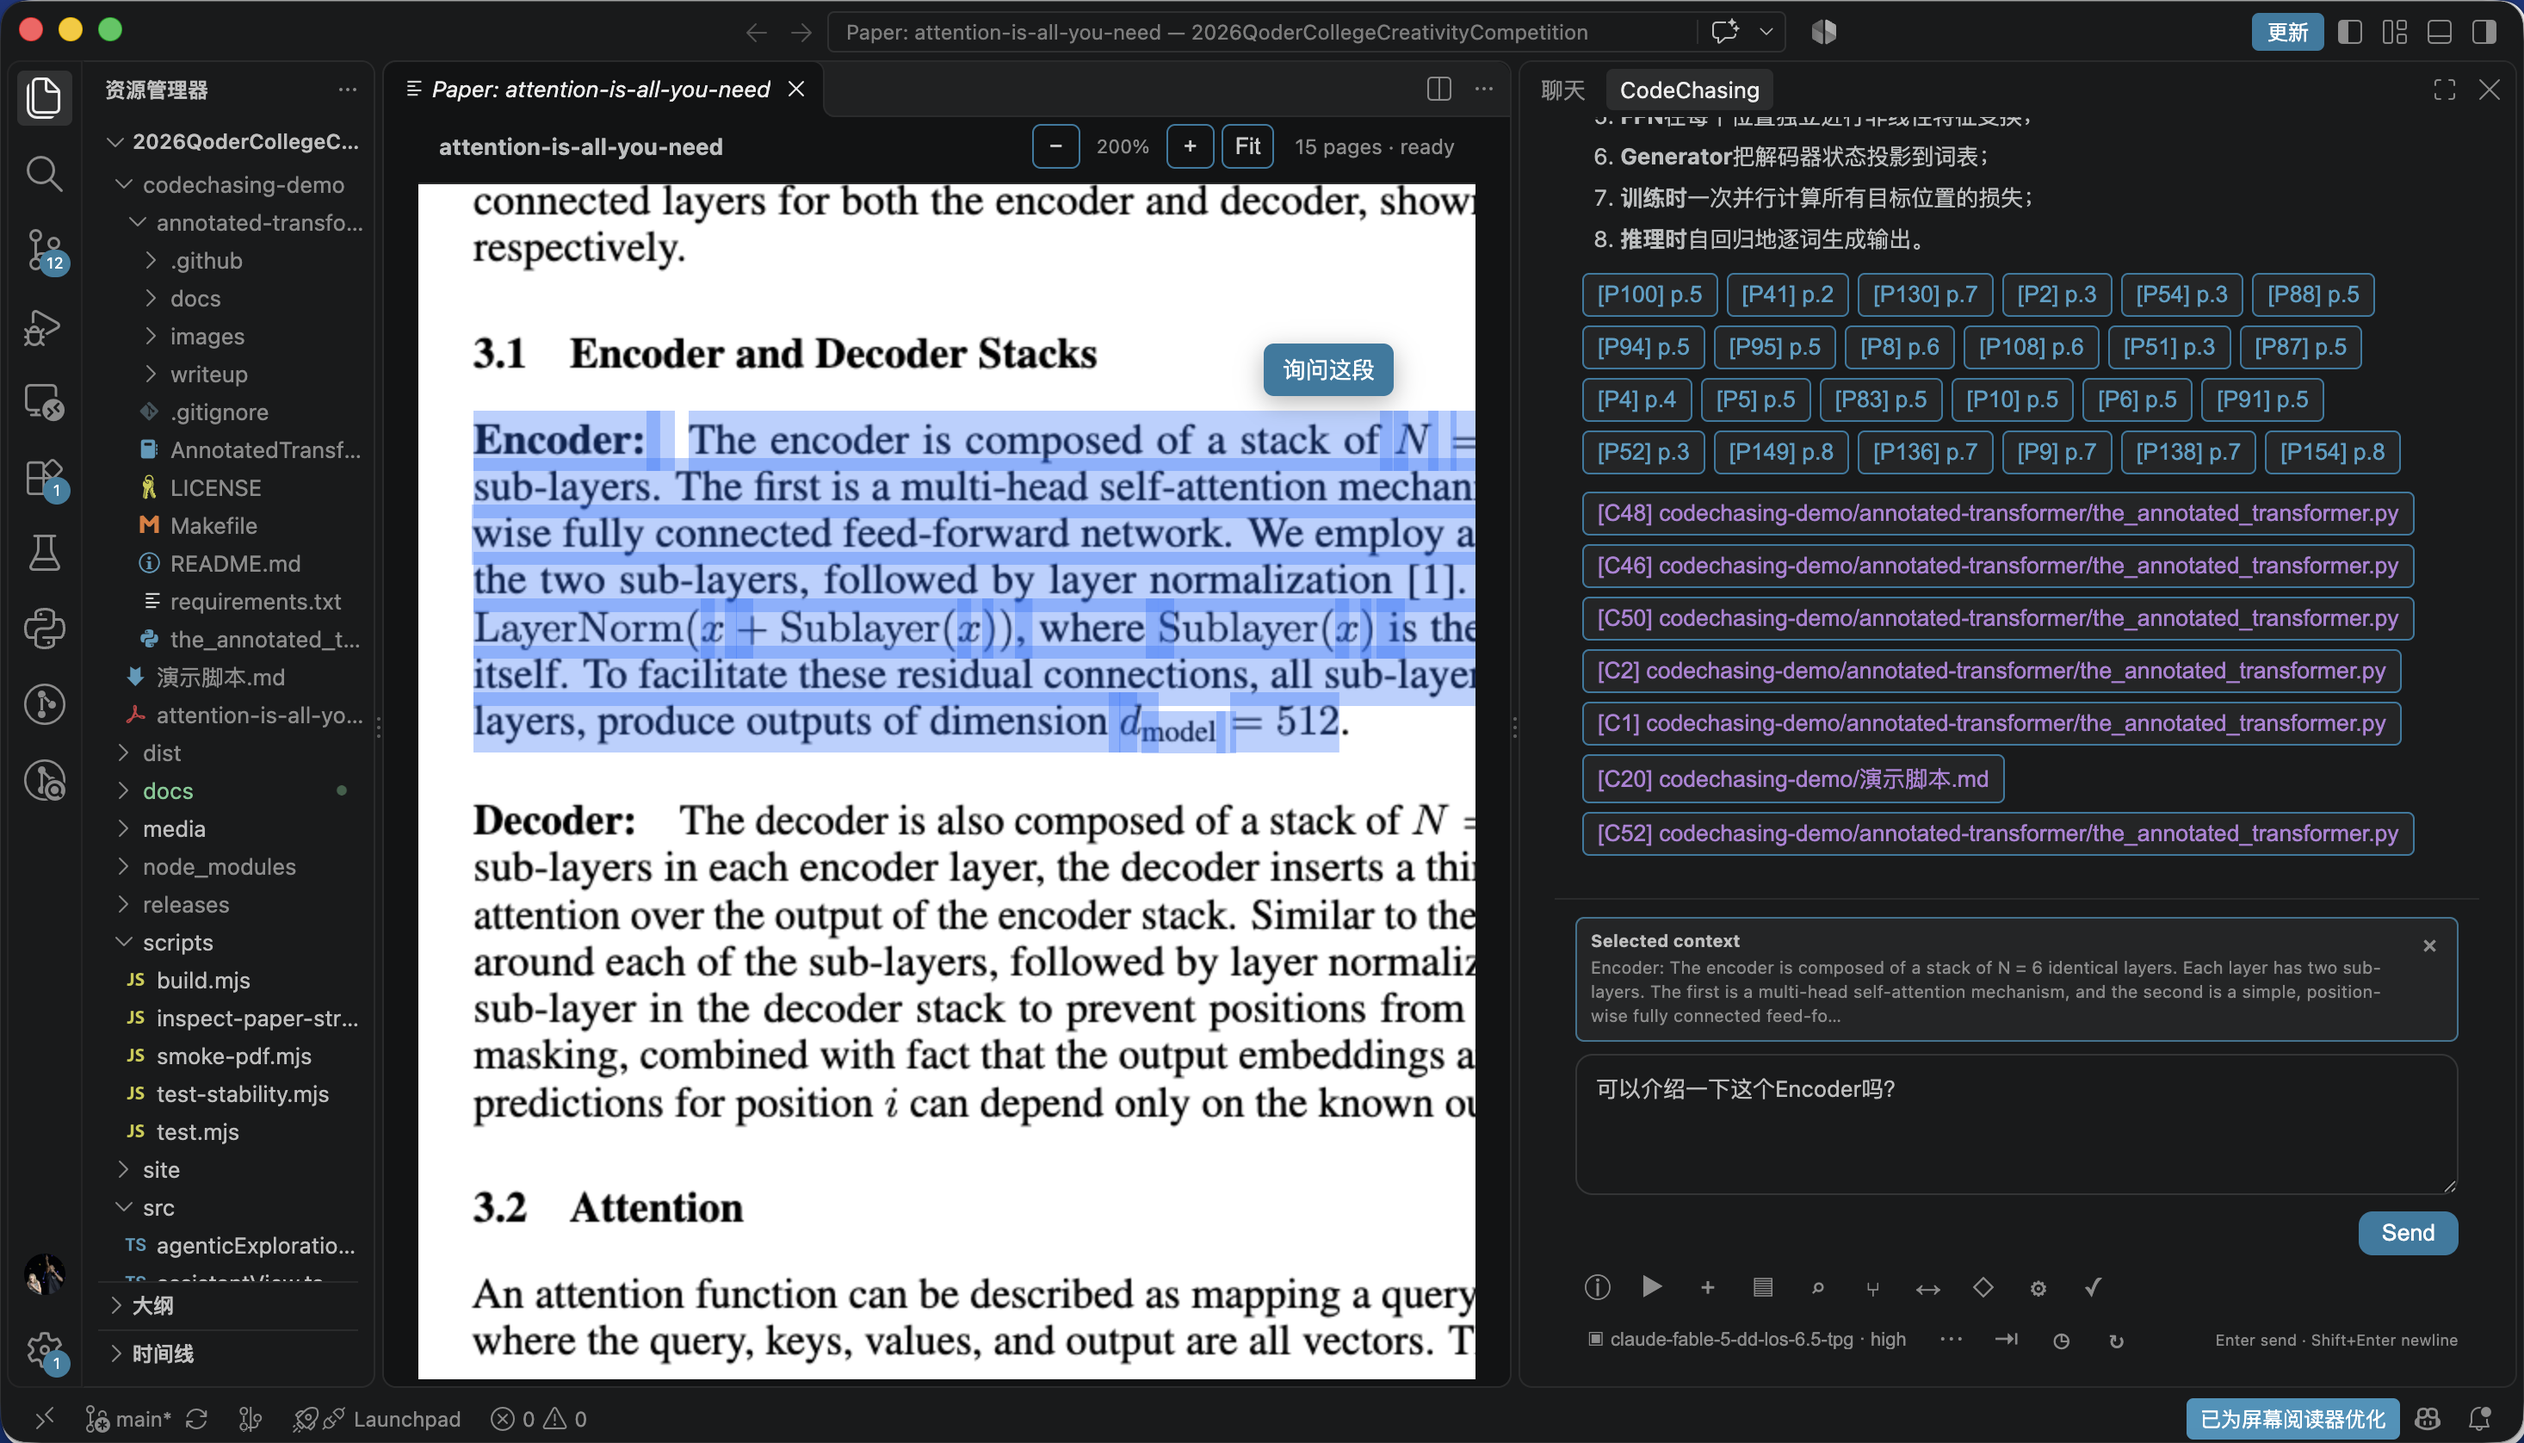
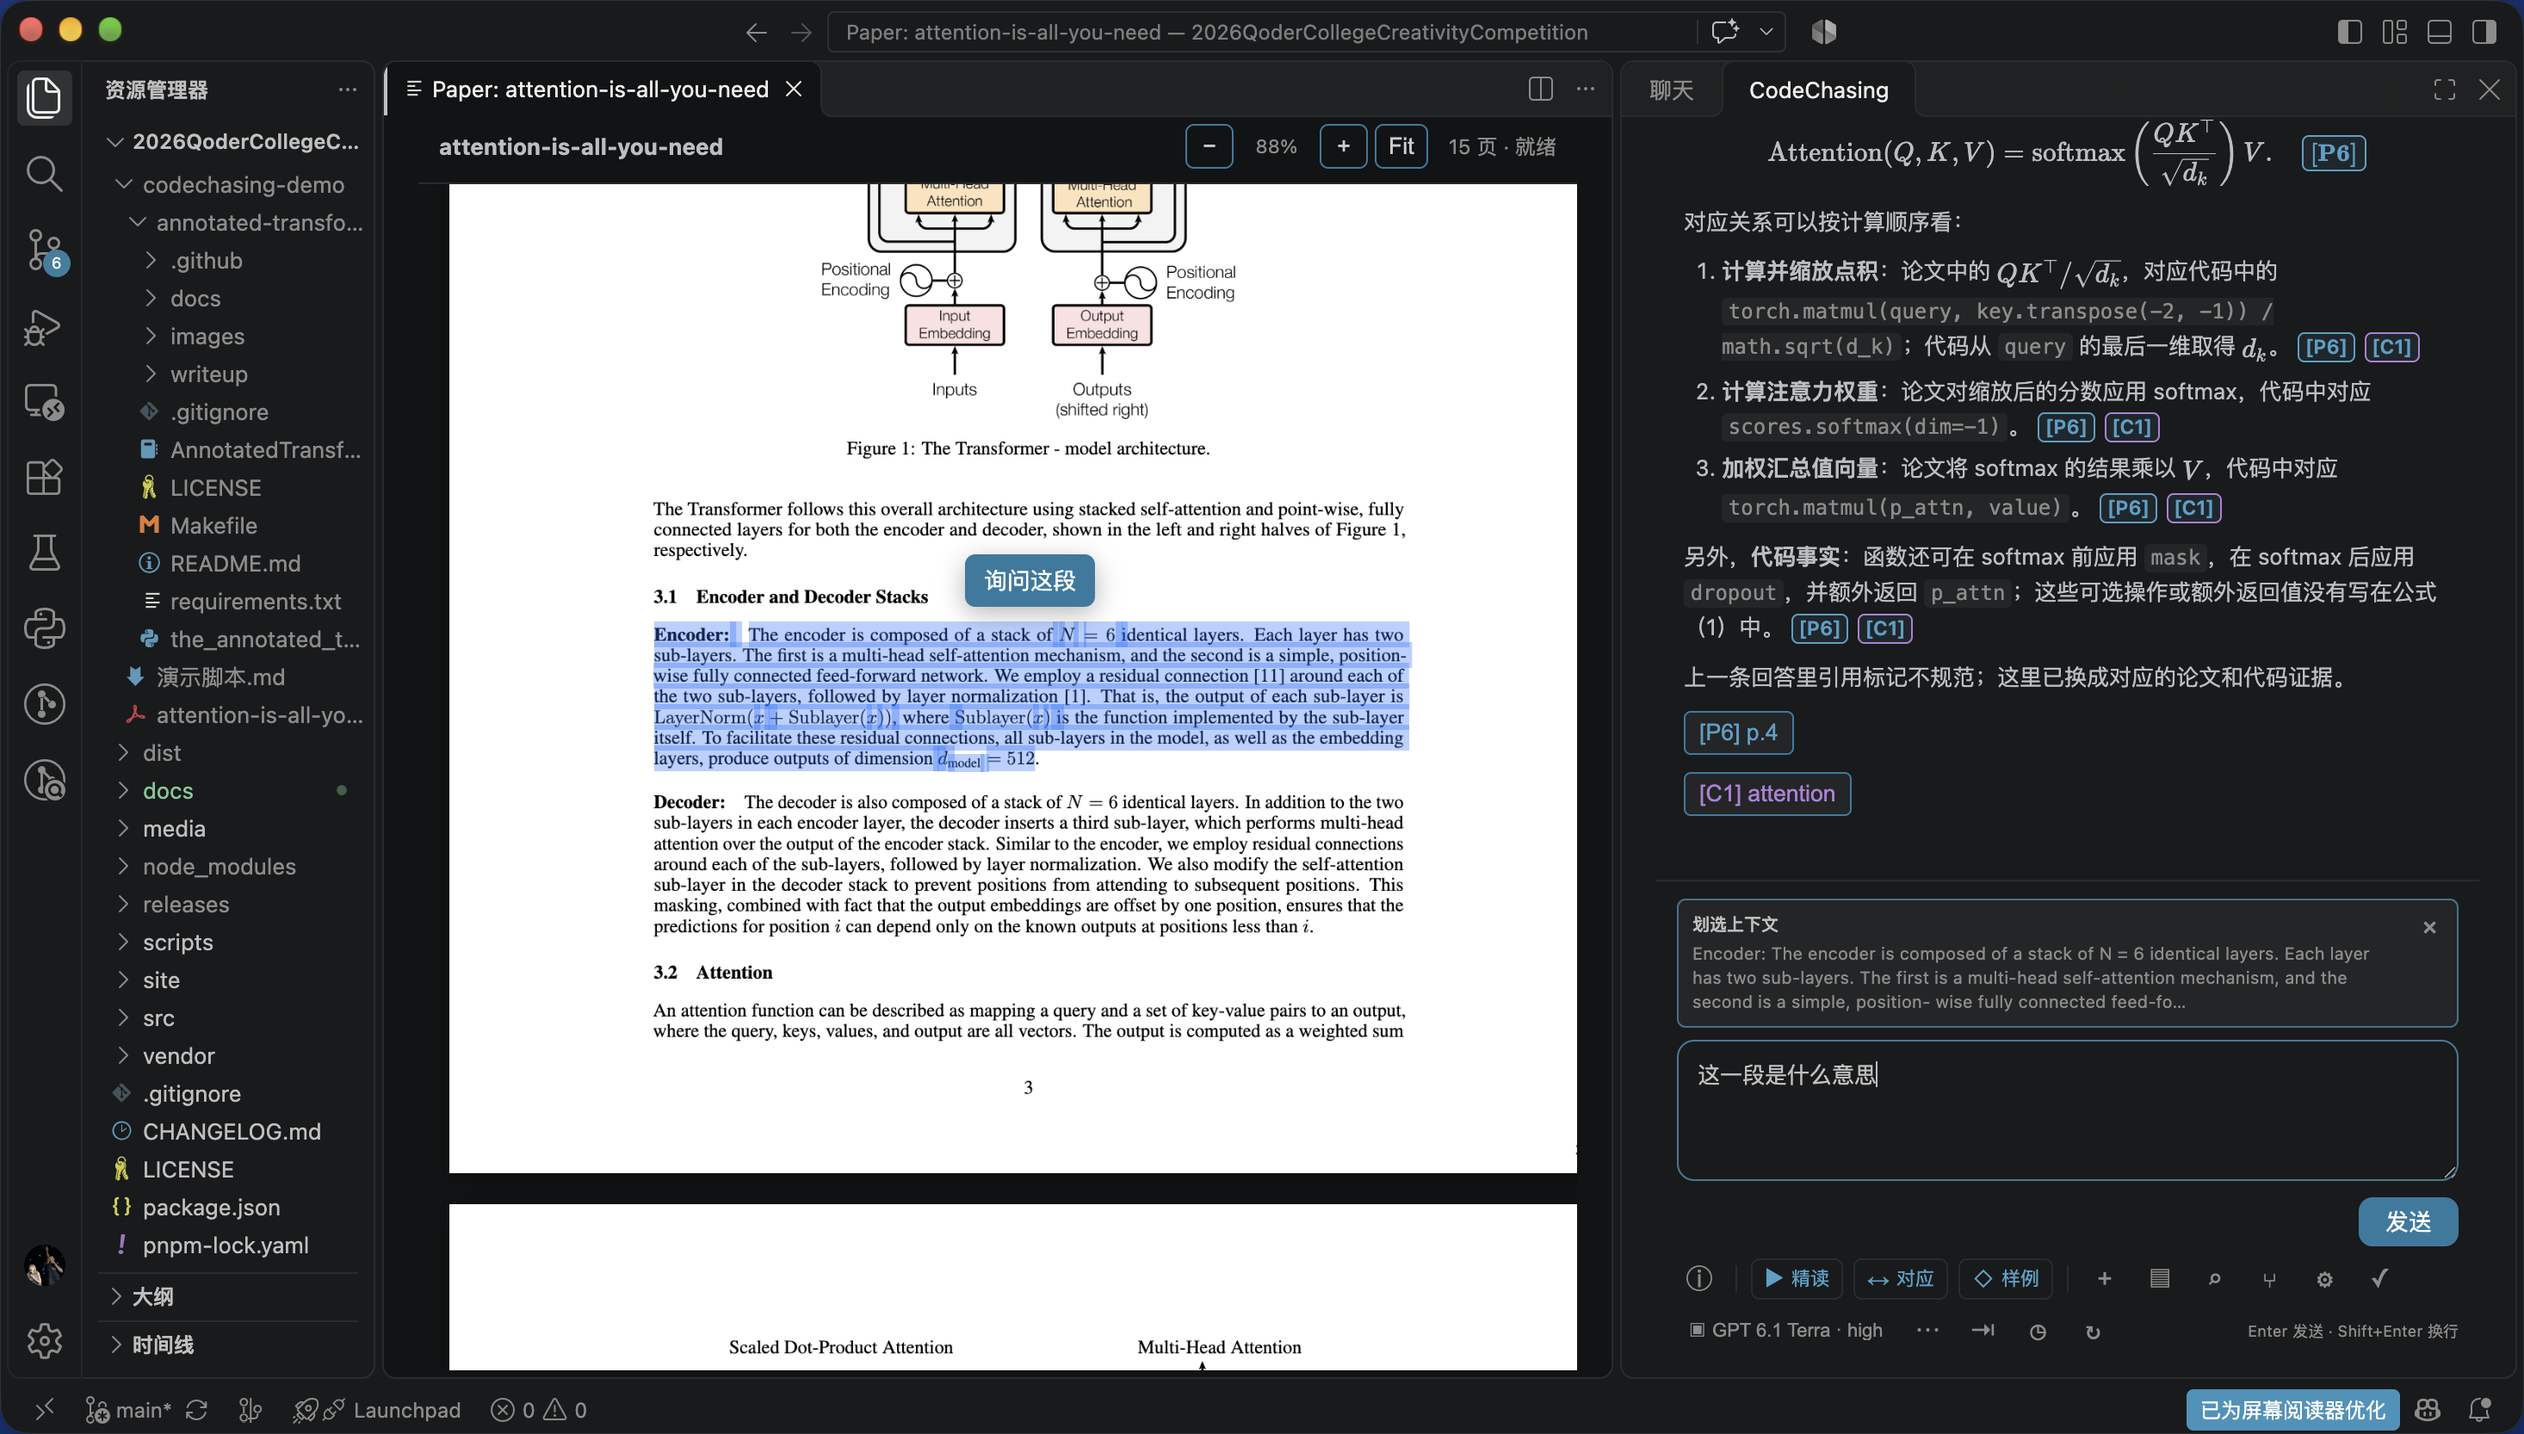
docs: replace screenshot slots with re-shot 0.30.6 figures, align captions

diff --git a/docs/submission-post.md b/docs/submission-post.md
@@ -43,18 +43,18 @@ Qoder UID：1807473371970627
 5. **提问验证**：直接中文提问，点回答中 `[P…]` 打开 PDF 并高亮原文，点 `[C…]` 跳到精确代码行；
 6. **深入**：选中代码按 `Cmd/Ctrl+Alt+P` 问"它对应论文哪个公式"，或点 ▶（首屏主按钮同款）一键"从论文到代码"引导式精读。
 
-> **截图空位 图2**（待新拍）：首屏就绪态——标题"论文 ↔ 代码，互相作证"、蓝色主按钮"▶ 从论文到代码，一键精读"、"✓ 论文已就绪 / ✓ 代码已扫描"三步行、虚线示例问题芯片，底部为分组工具栏（▶ 精读 / ↔ 对应 / ◇ 样例 带文字标签与分隔线）。 目标文件：`images/图2-首屏问题陈述与一键精读.png`。
+![图2 首屏问题陈述与一键精读](images/图2-首屏问题陈述与一键精读.png)
 图 2：新版首屏：立项问题直接写在空状态上，论文与代码就绪后出现一键示例提问。
 
 完整分步手册（含 15 分钟体验路线与常见问题）：https://github.com/Yikessa24/CodeChasing/blob/main/docs/judge-guide.md
 
-> **截图空位 图3**（待重拍）：侧栏一条完整回答（含 [P]/[C] 可点击引用标签），画面底部带新版分组工具栏（▶ 精读 / ↔ 对应 / ◇ 样例 带文字标签）。 目标文件：`images/图3-论文提问回答与引用.png`。
-图 3：问"缩放点积注意力为什么除以 sqrt(d_k)？"，回答中出现 [P2] 这类可点击引用标签。
-> **截图空位 图4**（待重拍）：点击 [P] 后 PDF 打开并高亮公式原文；阅读器界面为中文（"N 页 · 就绪"、适应页宽），底部带新版工具栏。 目标文件：`images/图4-点击引用跳转论文高亮.png`。
-图 4：点击 [P2] 后 PDF 打开并高亮公式 (1) 原文（红箭头指引用处）。
-> **截图空位 图5**（待重拍）：编辑器选中代码后出现的提问入口（CodeLens / 标题栏按钮 / 右键菜单任一），侧栏带新版工具栏。 目标文件：`images/图5-功能演示-选中代码提问入口.png`。
+![图3 论文提问回答与引用](images/图3-论文提问回答与引用.png)
+图 3：问"缩放点积注意力为什么除以 sqrt(d_k)？"，回答中出现 [P5] 这类可点击引用标签。
+![图4 点击引用跳转论文高亮](images/图4-点击引用跳转论文高亮.png)
+图 4：点击 [P5] 后 PDF 打开并高亮 §3.2.1 缩放论证原文（公式 (1) 同页可见，红箭头指引用处）。
+![图5 功能演示-选中代码提问入口](images/图5-功能演示-选中代码提问入口.png)
 图 5：选中代码即出现"询问或追踪这段代码"入口。
-> **截图空位 图6**（待重拍）：▶ 贯穿精读进行中或完成后的回答（贯穿样例已建立），侧栏带新版工具栏。 目标文件：`images/图6-功能演示-贯穿示例整篇精读.png`。
+![图6 功能演示-贯穿示例整篇精读](images/图6-功能演示-贯穿示例整篇精读.png)
 图 6：一键"从论文到代码"精读：先建立贯穿全文的具体样例，再逐步讲解。
 
 ## 五、Qoder 使用过程（开发与部署）
@@ -73,8 +73,8 @@ Qoder UID：1807473371970627
 图 7：Qoder 会话：真机反馈"回答结束后 C 引用消失"，Qoder 定位到收尾引用审计并修复。
 ![图8 Qoder 发布与同步手册](images/图8-Qoder会话-发布Release与同步手册.png)
 图 8：Qoder 会话：发布 Release 并逐条同步评委手册。
-> **截图空位 图9**（待重拍）：GitHub Releases 页：共 7 个 Releases、最新 v0.30.6，附件含 CodeChasing-0.30.6.vsix。 目标文件：`images/图9-GitHub仓库与Releases.png`。
-图 9：公开仓库共 7 个 Releases，最新 v0.30.6；安装包在 Releases 页下载。
+![图9 GitHub仓库与Releases](images/图9-GitHub仓库与Releases.png)
+图 9：公开仓库首页，右侧 Releases 共 7 个、最新 CodeChasing 0.30.6（Latest）；安装包 CodeChasing-0.30.6.vsix 在 Releases 页下载。
 
 ## 六、亮点与创新
 
@@ -89,15 +89,15 @@ Qoder UID：1807473371970627
 - **对话不丢**：启动自动恢复最近对话，历史会话切换后引用仍可点击；长对话窗口 + 增量摘要压缩；
 - **隐私边界**：提取 / 检索 / 扫描全本地，API key 存 SecretStorage，自动排除 `.env` 等敏感文件，不执行代码、不上传整仓。
 
-> **截图空位 图10**（待重拍）：[P] 与 [C] 引用同屏；或 ↔ 对应关系面板选中一条后代码行范围与论文高亮证据对照打开的画面。 目标文件：`images/图10-功能演示-论文代码对应与差异标注.png`。
-图 10：论文—代码对应与差异：[P] 与 [C] 引用同屏。
-> **截图空位 图11**（待重拍）：200% 缩放下划选段落出现"询问这段"按钮，右侧为本轮引用标签列表。 目标文件：`images/图11-功能演示-缩放划选询问这段.png`。
-图 11：200% 缩放下划选段落即出现"询问这段"；右侧为本轮引用标签列表。
+![图10 功能演示-论文代码对应与差异标注](images/图10-功能演示-论文代码对应与差异标注.png)
+图 10：↔ 对应面板选中一条立即对照打开代码行范围与论文高亮，[P6] 与 [C1] 引用同屏。
+![图11 功能演示-缩放划选询问这段](images/图11-功能演示-缩放划选询问这段.png)
+图 11：88% 缩放下划选段落即出现"询问这段"；右侧为本轮引用标签列表。
 ![图12 张量形状追踪](images/图12-功能演示-张量形状追踪.png)
 图 12：贯穿运行样例·张量流追踪面板：逐步状态与形状，带"推断"标记与证据按钮。
-> **截图空位 图13**（待重拍）：调用图默认的核心子图视图：顶部统计"核心 N/total · 模型判断"，含 显示全部/显示核心 与 重新判断核心 按钮。 目标文件：`images/图13-功能演示-调用关系图.png`。
+![图13 功能演示-调用关系图](images/图13-功能演示-调用关系图.png)
 图 13：项目调用图默认展示模型判断的核心函数子图（可切换显示全部）：实线确定调用、虚线歧义引用，点击节点打开代码。
-> **截图空位 图14**（待重拍）：选中代码反查论文公式、点 [P] 高亮后，窗口保持 文件树｜代码｜PDF｜助手 四画面。 目标文件：`images/图14-功能演示-代码反查公式与四画面.png`。
+![图14 功能演示-代码反查公式与四画面](images/图14-功能演示-代码反查公式与四画面.png)
 图 14：选中代码反查论文公式、点 [P] 高亮后，窗口仍保持文件树｜代码｜PDF｜助手四画面。
 
 ## 七、结果与验证
